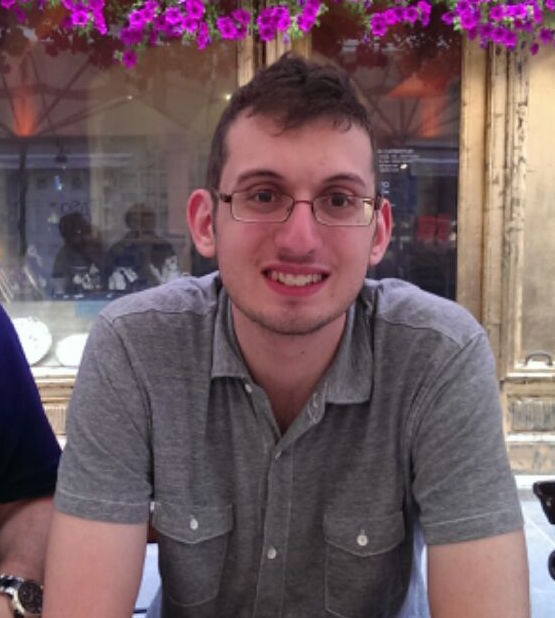
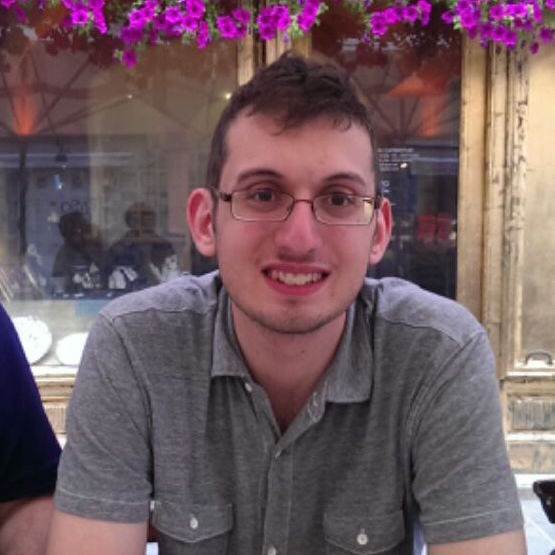
edit pics

diff --git a/people.md b/people.md
@@ -60,7 +60,7 @@ permalink: /people/
 
 <figure>
     <a href="../images/carlos.jpg">
-        <img src="{{ site.baseurl }}/images/carlos.jpg" width="150px" height="150px" align="left"/>
+        <img src="{{ site.baseurl }}/images/danny.jpeg" width="150px" height="150px" align="left"/>
     </a>
 <figcaption>
         Danny Baghdan is an undergraduate at Loyola University Chicago who majors in Bioinformatics.  His interests include all forms of medical research and he plans to attend an MD/ PhD program. His hobbies include listening to music, playing games, and spending time with his friends.
